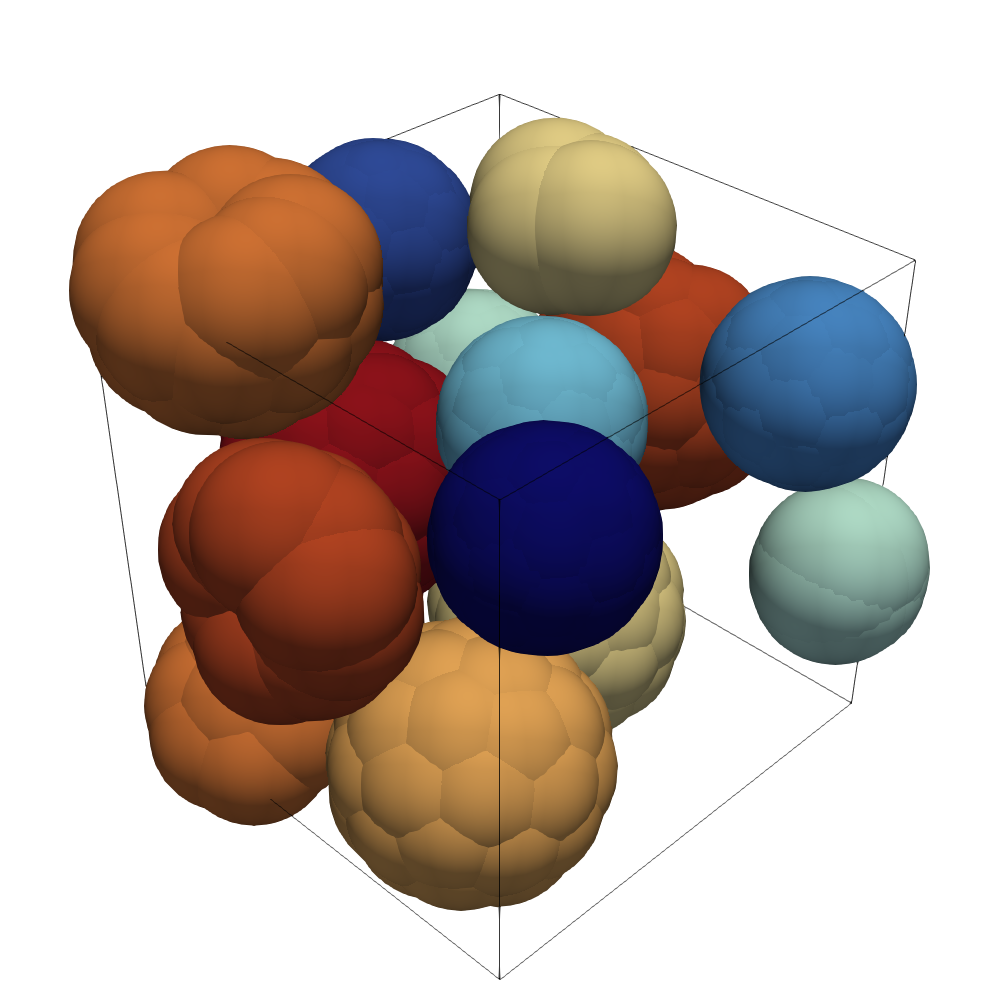
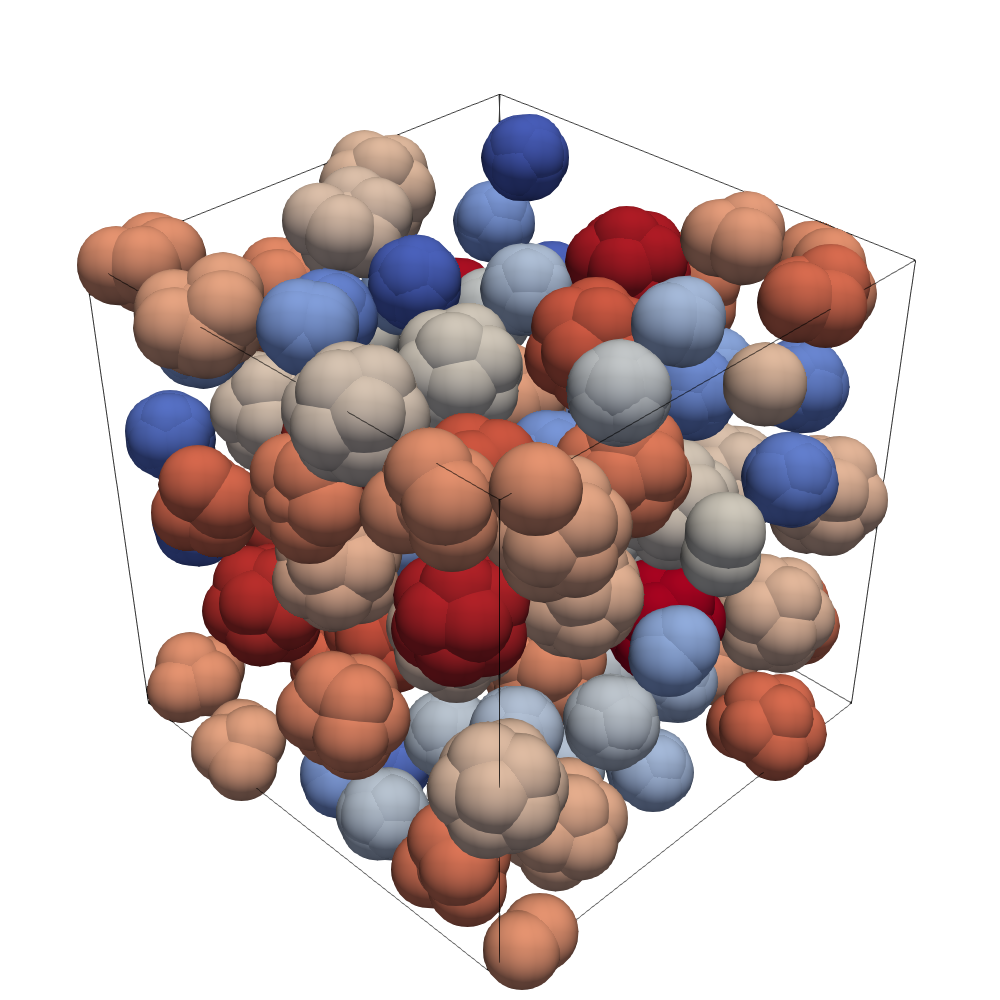
added

diff --git a/12/testing-jaxdem-scripts/clump-construction/run_3.py b/12/testing-jaxdem-scripts/clump-construction/run_3.py
@@ -7,6 +7,8 @@ from jaxdem.utils import Quaternion
 import jax.numpy as jnp
 import jaxdem as jd
 
+jax.config.update("jax_enable_x64", True)
+
 def jax_copy(x):
     return jax.tree.map(lambda y: y, x)
 
@@ -159,8 +161,8 @@ counts = np.round(N * count_ratios).astype(int)
 sizes = small_radius * size_ratios
 # print(sum(counts), N)  # must be equal
 # print(counts / N == count_ratios) # warn if not match
-nvs = np.ones_like(counts) * nv  # TODO: make this such that the friction is constant across all shapes
-
+nvs = np.ones_like(counts) * jnp.round(nv * size_ratios)  # TODO: make this such that the friction is constant across all shapes
+print(nvs)
 assert np.all(sizes > 0)
 assert np.all(counts > 0)
 
@@ -216,9 +218,9 @@ system = jd.System.create(
     # rotation_integrator_type="rotationfire",
     domain_type="periodic",
     force_model_type="spring",
-    collider_type="naive",
-    # collider_type="celllist",
-    # collider_kw=dict(state=state),
+    # collider_type="naive",
+    collider_type="celllist",
+    collider_kw=dict(state=state),
     mat_table=mat_table,
     domain_kw=dict(
         box_size=box_size,
@@ -226,7 +228,7 @@ system = jd.System.create(
 )
 
 
-state, system, phi, pe = jd.utils.bisection_jam(state, system, n_minimization_steps=1_000_00, n_jamming_steps=1_000_000, packing_fraction_increment=1e-2)
+state, system, phi, pe = jd.utils.bisection_jam(state, system, n_minimization_steps=1_000_00, n_jamming_steps=1_000_000, packing_fraction_increment=1e-3)
 
 import subprocess
 from pathlib import Path

diff --git a/12/testing-jaxdem-scripts/clump-construction/surface_friction_sweep.py b/12/testing-jaxdem-scripts/clump-construction/surface_friction_sweep.py
@@ -36,6 +36,7 @@ import trimesh
 import jaxdem as jd
 from jaxdem.utils import Quaternion
 
+jax.config.update("jax_enable_x64", True)
 
 def num_trimesh_subdivisions(num_vertices: int) -> int:
     s = round(np.log10((num_vertices - 2) / 10) / np.log10(4))

diff --git a/12/testing-jaxdem-scripts/clump-construction/friction_test.py b/12/testing-jaxdem-scripts/clump-construction/friction_test.py
@@ -7,6 +7,8 @@ from jaxdem.utils import Quaternion
 import jax.numpy as jnp
 import jaxdem as jd
 
+jax.config.update("jax_enable_x64", True)
+
 def jax_copy(x):
     """
     Make a *real* copy of a pytree containing JAX arrays.

diff --git a/12/testing-jaxdem-scripts/clump-construction/run_2.py b/12/testing-jaxdem-scripts/clump-construction/run_2.py
@@ -6,6 +6,8 @@ from jaxdem.utils import Quaternion
 import jax.numpy as jnp
 import jaxdem as jd
 
+jax.config.update("jax_enable_x64", True)
+
 def jax_copy(x):
     return jax.tree.map(lambda y: y, x)
 

diff --git a/12/testing-jaxdem-scripts/clump-construction/test_random_spheres.py b/12/testing-jaxdem-scripts/clump-construction/test_random_spheres.py
@@ -6,6 +6,8 @@ import jax
 import jax.numpy as jnp
 import jaxdem as jd
 
+jax.config.update("jax_enable_x64", True)
+
 N = 50
 phi = 0.4
 dim = 2
